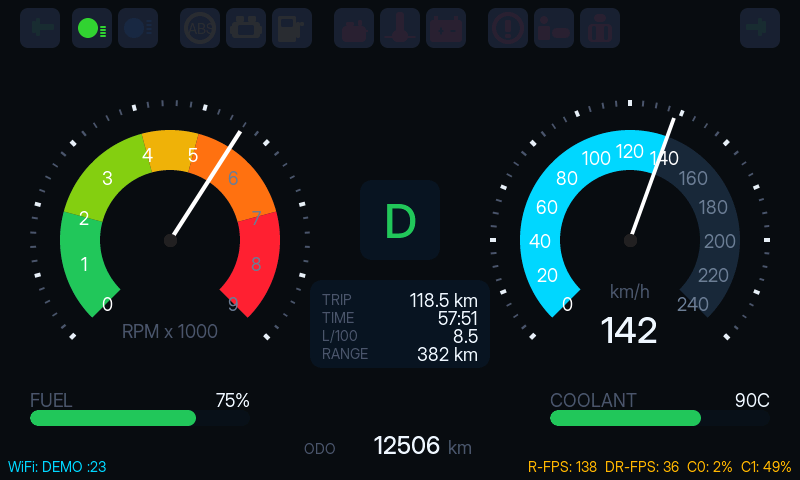
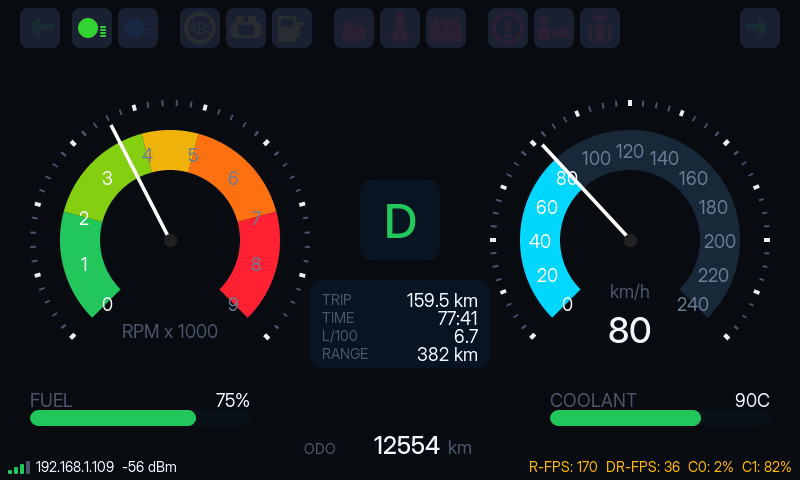
v0.9.1: UI — alt köşede WiFi 4-bar signal + canlı IP/dBm
Eski static "WiFi: DEMO :23" yazısı yerine canlı WiFi göstergesi:

- 4 dikey bar (4/7/10/13 px), soldan sağa artan boy. Native lv_obj
  rectangle çizimi (Inter font subset'inde WiFi glyph yok, FontAwesome
  bağımlılığı yok).
- RSSI'ye göre kademeli renkli:
    ≥ -50 dBm → 4 bar yeşil  (excellent)
    ≥ -65 dBm → 3 bar yeşil  (good)
    ≥ -75 dBm → 2 bar amber  (fair)
    <  -75    → 1 bar kırmızı (weak)
    bağlı değil → tüm barlar dim
- Yan tarafta IP + RSSI text:  "192.168.1.109  -58 dBm"  (FG renk)
  CONNECTING durumda "connecting..." (dim), DISABLED'da "--" (dim).
- ui_refresh içinde 1 Hz throttled update — RSSI ve state değişmediyse
  widget'lara dokunulmaz, flicker önlenir.
- ui_set_ip(const char *) backward compat için no-op'a düştü, header
  tutuldu.

diff --git a/main/ui.c b/main/ui.c
@@ -39,6 +39,7 @@ static lv_meter_indicator_t *ind_rpm_needle;
 static lv_meter_indicator_t *ind_speed_arc, *ind_speed_needle;
 static lv_obj_t *lbl_speed_val;   /* RPM ortadaki sayı kaldırıldı */
 static lv_obj_t *lbl_gear, *lbl_km, *lbl_ip;
+static lv_obj_t *wifi_bar[4];   /* 4 dikey bar — RSSI gösterimi */
 static lv_obj_t *bar_fuel, *bar_temp, *lbl_fuel_pct, *lbl_temp_val;
 static lv_obj_t *lbl_fps;
 
@@ -556,11 +557,31 @@ void ui_build(void)
     lv_obj_set_style_text_font(odo_unit, &lv_font_inter_18, 0);
     lv_obj_align(odo_unit, LV_ALIGN_BOTTOM_MID, 60, -22);
 
+    /* WiFi signal — 4 dikey bar, soldan sağa artan boy. RSSI'ye göre kaç tanesi
+     * "lit" (renkli) ui_refresh'te belirlenir. Inter font'ta WiFi glyph yok,
+     * native object çiziyoruz. */
+    int bar_x0 = 8;
+    int bar_w  = 4;
+    int bar_gap = 2;
+    for (int i = 0; i < 4; i++) {
+        int h = 4 + i * 3;            /* 4, 7, 10, 13 px */
+        wifi_bar[i] = lv_obj_create(scr);
+        lv_obj_remove_style_all(wifi_bar[i]);
+        lv_obj_set_size(wifi_bar[i], bar_w, h);
+        lv_obj_set_pos(wifi_bar[i],
+                       bar_x0 + i * (bar_w + bar_gap),
+                       LCD_V_RES - 6 - h);
+        lv_obj_set_style_bg_color(wifi_bar[i], C_DIM, 0);
+        lv_obj_set_style_bg_opa(wifi_bar[i], LV_OPA_COVER, 0);
+        lv_obj_set_style_radius(wifi_bar[i], 1, 0);
+    }
+
+    /* IP + dBm — wifi_get_status'tan canlı çekilir */
     lbl_ip = lv_label_create(scr);
-    lv_obj_set_style_text_color(lbl_ip, C_ACCENT, 0);
+    lv_obj_set_style_text_color(lbl_ip, C_DIM, 0);
     lv_obj_set_style_text_font(lbl_ip, &lv_font_inter_14, 0);
-    lv_label_set_text(lbl_ip, "WiFi: ...");
-    lv_obj_align(lbl_ip, LV_ALIGN_BOTTOM_LEFT, 8, -4);
+    lv_label_set_text(lbl_ip, "--");
+    lv_obj_align(lbl_ip, LV_ALIGN_BOTTOM_LEFT, bar_x0 + 4*(bar_w+bar_gap) + 4, -4);
 
     lbl_fps = lv_label_create(scr);
     lv_obj_set_style_text_color(lbl_fps, C_AMBER, 0);
@@ -717,6 +738,48 @@ void ui_refresh(void)
         prev_range = s.range_km;
     }
 
+    /* WiFi göstergesi — saniyede 1 update (RSSI yavaş değişir, flicker olmasın).
+     *   bars_lit  = 4 (mükemmel, RSSI ≥ -50)
+     *               3 (-50..-65)
+     *               2 (-65..-75)
+     *               1 (-75'ten zayıf, hâlâ bağlı)
+     *               0 (bağlı değil) */
+    static int64_t last_wifi_us = 0;
+    static int     prev_rssi    = -127;
+    static int     prev_state   = -1;
+    if (now_us - last_wifi_us >= 1000000) {
+        last_wifi_us = now_us;
+        wifi_status_t w; wifi_get_status(&w);
+        if (w.state != prev_state || w.rssi != prev_rssi) {
+            prev_state = w.state;
+            prev_rssi  = w.rssi;
+
+            int bars = 0;
+            lv_color_t lit = C_DIM;
+            if (w.state == WIFI_STATE_CONNECTED) {
+                if      (w.rssi >= -50) { bars = 4; lit = C_GREEN; }
+                else if (w.rssi >= -65) { bars = 3; lit = C_GREEN; }
+                else if (w.rssi >= -75) { bars = 2; lit = C_AMBER; }
+                else                    { bars = 1; lit = C_RED;   }
+
+                char wbuf[40];
+                snprintf(wbuf, sizeof(wbuf), "%s  %d dBm", w.ip, w.rssi);
+                lv_label_set_text(lbl_ip, wbuf);
+                lv_obj_set_style_text_color(lbl_ip, C_FG, 0);
+            } else if (w.state == WIFI_STATE_CONNECTING) {
+                lv_label_set_text(lbl_ip, "connecting...");
+                lv_obj_set_style_text_color(lbl_ip, C_DIM, 0);
+            } else {
+                lv_label_set_text(lbl_ip, "--");
+                lv_obj_set_style_text_color(lbl_ip, C_DIM, 0);
+            }
+            for (int i = 0; i < 4; i++) {
+                lv_obj_set_style_bg_color(wifi_bar[i],
+                    i < bars ? lit : C_DIM, 0);
+            }
+        }
+    }
+
     /* Telltale modları:
      *   BLINK : turn signals (sinyal/dörtlü)
      *   PULSE : kritik kırmızılar (brake, oil, coolant, engine MIL)
@@ -740,12 +803,10 @@ void ui_refresh(void)
     icon_set_mode(ic_fuel_low, fl              ? ICON_MODE_ON    : ICON_MODE_OFF);
 }
 
-void ui_set_ip(const char *ip)
-{
-    char buf[40];
-    snprintf(buf, sizeof(buf), "WiFi: %s :23", ip);
-    lv_label_set_text(lbl_ip, buf);
-}
+/* ui_set_ip kaldırıldı — WiFi label artık ui_refresh içinde wifi_get_status'tan
+ * canlı çekiliyor (RSSI dahil). Header'da deklarasyon backward compat için kalır
+ * ama no-op'a dönüştürüldü. */
+void ui_set_ip(const char *ip) { (void)ip; }
 
 /* ============================================================
  * Settings modal — long-press anywhere on screen → settings

diff --git a/README.md b/README.md
@@ -5,7 +5,7 @@ ESP32-S3 + 7" 800×480 RGB TFT panel için **profesyonel araç gösterge paneli 
 > **Donanım**: Waveshare ESP32-S3-Touch-LCD-7 V1.2  
 > **Yazılım**: ESP-IDF v5.3.2 + LVGL v8.4  
 > **Performans**: R-FPS ~200, DR-FPS 38 (panel-limited), tear-free, ~626 KB PSRAM snapshot cache  
-> **Mevcut sürüm**: **v0.9.0** ([releases](https://github.com/haliskilic/carcluster/releases))
+> **Mevcut sürüm**: **v0.9.1** ([releases](https://github.com/haliskilic/carcluster/releases))
 
 ---
 
@@ -519,6 +519,7 @@ Schematic incelemesi sonrası bulunan eksiklikler:
 | **v0.8.1** | I²C bus recovery — soft reset (idf.py flash, esp_restart) sonrası GT911/CH422G önceki transaction'da takılı kalmış olabilir. board.c i2c_init() öncesi NXP UM10204 sequence: SDA released, SCL 9 puls + STOP. Pin'ler önce HIGH set'lenir SONRA OUTPUT_OD config (LOW pulse sızdırma yok). |
 | **v0.8.2** | Auto-screenshot debug interface. **screenshot.c**: LVGL snapshot → RGB565 → inline base64 → printf via USB-Serial-JTAG. **cmd_listener.c**: USB-CDC RX dinler, `SHOT MAIN` / `SHOT MODAL <tab>` komutları üzerine ui_cmd_show_modal/close + screenshot_dump_uart tetikler. **tools/auto_screenshots.py**: 5 ekranı sırayla 1-2 dk içinde PNG'ye yakalar — her release sonrası dokümantasyonu otomatik tazeleme. |
 | **v0.9.0** | C1 — WiFi STA + OTA. **wifi.c**: NVS credentials, otomatik bağlan + reconnect + RSSI track. **ota.c**: HTTP firmware indir, esp_ota_write, set_boot_partition + restart. Custom partition table (factory + ota_0 + ota_1, 2 MB her biri, anti-brick). Diag sekmesinde WiFi durumu (SSID/IP/RSSI). UART komutları: `WIFI SET <ssid> <pass>`, `WIFI STATUS`, `OTA URL <http>`, `OTA START`, `OTA STATUS`. **tools/ota_serve.py**: build/carcluster.bin için yerel HTTP server. WiFi RX buffer'lar PSRAM'de + AMPDU off → internal heap budgeti korunur. |
+| **v0.9.1** | UI — alt-sol köşede **WiFi 4-bar signal indicator** + canlı IP/dBm. Native lv_obj rect bar (Inter font'ta WiFi glyph yok, manuel çiziliyor). RSSI bant: ≥-50→4 bar yeşil, ≥-65→3 bar yeşil, ≥-75→2 bar amber, <-75→1 bar kırmızı. Static "WiFi: DEMO :23" kaldırıldı, ui_set_ip no-op'a indirgendi. ui_refresh içinde 1 Hz throttled update, RSSI veya state değişmediyse widget dokunulmaz. |
 
 ```bash
 git tag -l    # tüm versiyonlar
